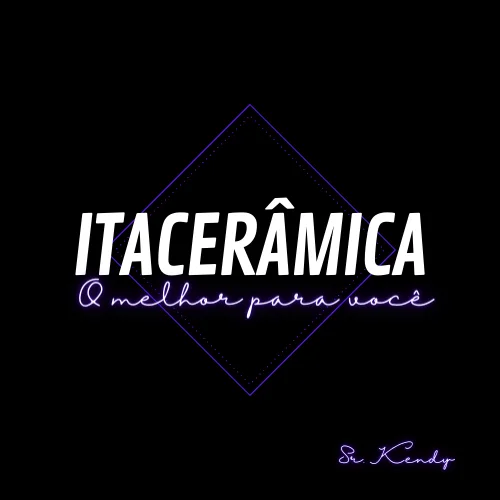
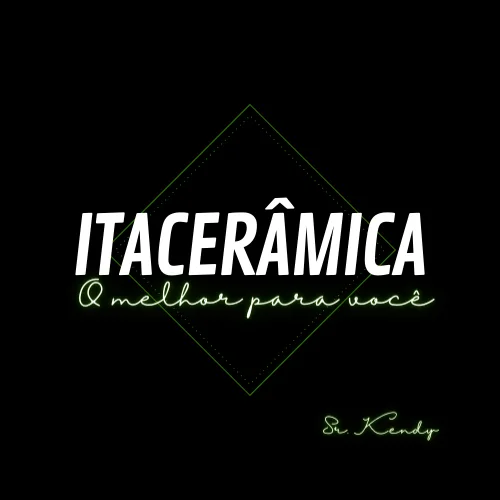
ADD::CSS

diff --git a/Site/HTML/index.html b/Site/HTML/index.html
@@ -13,16 +13,16 @@
     <header>
         <div class="menu-bg">
             <div class="menu">
-                <div class="menu-logo">
-                    <a href="index.html"><img src="../IMAGES/logo.webp" alt="Logotipo" width="85px" height="auto"></a>
+                <div class="col-4">
+                        <a href="index.html"><img src="../IMAGES/Aurora.webp" alt="Logotipo" width="60px" height="auto"></a>
                 </div>
                 <!--menu-logo-->
                 <nav class="nav1">
                     <ul class="nav_list">
-                        <li ><a href="#contato">Contato</a></li>
-                        <li ><a href="#destaques">Destaques</a></li>
-                        <li ><a href="#ceramicas">Cerâmicas</a></li>
-                        <li ><a class="active" href="#inicio">Inicio</a></li>
+                        <li class="col-3"><a class="active" href="#inicio">Inicio</a></li>
+                        <li class="col-3"><a href="#destaques">Destaques</a></li>
+                        <li class="col-3"><a href="#ceramicas">Cerâmicas</a></li>
+                        <li class="col-3"><a href="#contato">Contato</a></li>
 
                     </ul>
                 </nav>
@@ -32,7 +32,7 @@
         <!--menu bg-->
         <h1 id="h1">ItaCerâmica</h1>
         <ul class="header">
-           
+
         </ul>
     </header>
     <main>
@@ -40,7 +40,6 @@
             <div class="header">
                 <h1>Bem vindo ao ItaCerâmica</h1>
             </div>
-
             <div class="row">
                 <div class="col-3 menu">
                     <ul>
@@ -103,12 +102,12 @@
         </section>
     </main>
 
-    <footer>
+    <footer class="footer">
 
-        <p>
-        <h3>Informações para contato</h3>
+        <p id="footer-info">
+            <h3>Informações para contato</h3>
         </p>
-        <a href="mailto:kendy619.kf@gmail.com">kendy619.kf@gmail.com</a>
+        <a  href="mailto:kendy619.kf@gmail.com">kendy619.kf@gmail.com</a>
         <a href="Contato.html" target="_blank" rel="Informações autor">
             <p>
                 Sobre o autor

diff --git a/Site/CSS/lading-page.css b/Site/CSS/lading-page.css
@@ -68,12 +68,12 @@ ul {
     margin: 0;
     padding: 0;
     overflow: hidden;
-    background-color: #333;
+    background-color:  #000000;  
 }
 
 li {
     float: left;
-    border-right: 1px solid #bbb;
+    border-right: 1px solid #000000;
 }
 
 li:last-child {
@@ -89,7 +89,7 @@ li a {
 }
 
 li a:hover:not(.active) {
-    background-color: rgb(10, 10, 10);
+    background-color: #2A6E00;
 }
 
 .active {
@@ -102,30 +102,25 @@ li a:hover:not(.active) {
     display: table;
 }
 
-
-
-.header {
-    background-color: rgb(10, 10, 10);
-    color: #ffffff;
-    padding: 15px;
-}
-
 .menu ul {
     list-style-type: none;
     margin: 0;
     padding: 0;
 }
 
-.menu li {
+ .menu li {
     padding: 8px;
     margin-bottom: 7px;
-    background-color: #33b5e5;
+    background-color: #2A6E00;
     color: #ffffff;
-    box-shadow: 0 1px 3px rgba(0, 0, 0, 0.12), 0 1px 2px rgba(0, 0, 0, 0.24);
-}
+    box-shadow: 0 1px 3px  #ffffff, 0 1px 2px  #ffffff;
+} 
 
 .menu li:hover {
-    background-color: #0099cc;
+    background-color: #2A6E00;
+}
+.nav-list{
+    text-align: center;
 }
 
 @media screen and (max-width: 600px) {

diff --git a/Site/CSS/shared.css b/Site/CSS/shared.css
@@ -1,3 +1,16 @@
-header
+.header {
+    background-color:black;
+    color: #ffffff;
+    padding: 15px;
+}
 
-footer
+#footer{
+    background-color: #04AA6D;
+    padding:0px; 
+    margin:0px;
+    margin:0px;
+    padding-top:15px;
+    text-align:center;
+    padding-bottom:15px;
+    color:white !important
+}

diff --git a/Site/CSS/reset.css b/Site/CSS/reset.css
@@ -4,6 +4,7 @@ html {
 
 * {
     box-sizing: border-box;
+    background-color: black;
 }
 
 [class*="col-"] {
